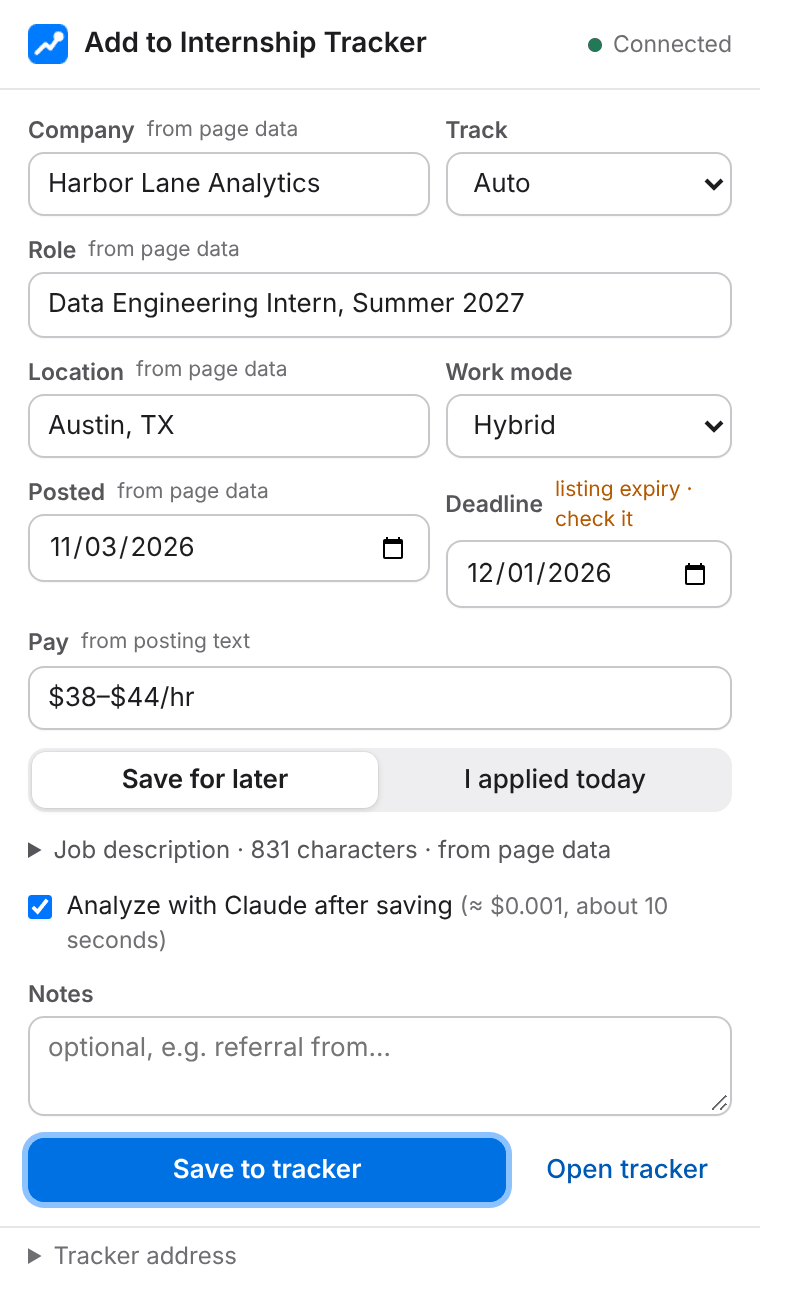
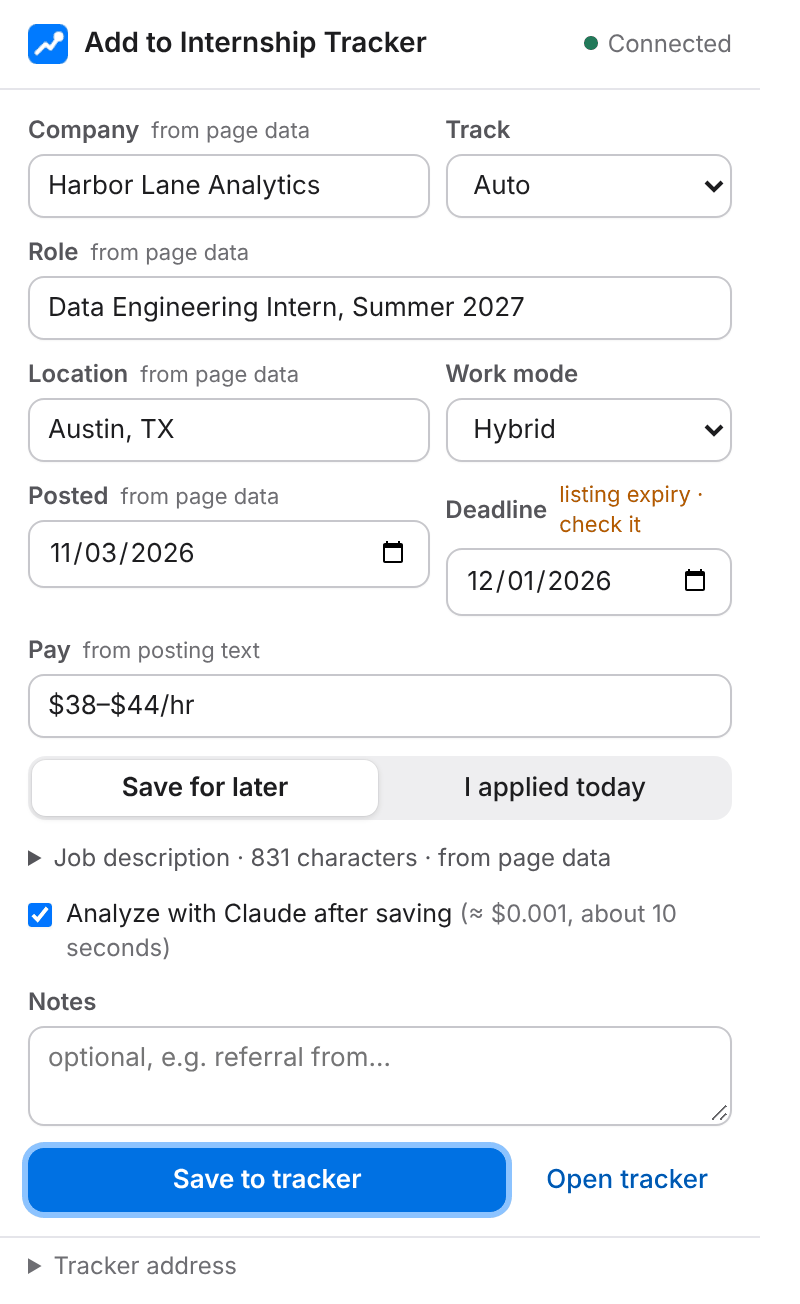
Final audit: one-command demo, demo GIF, no side stripes, phone header, scroll reset
- python3 server.py --demo: synthetic data in a temporary folder, stubbed Claude, no refresh,
  port 8766; README opens with a 25-second tour GIF and the two-line try-it command
- Audit (19 routes x desktop/tablet/phone x light/dark): no axe-core WCAG 2.2 A/AA violations,
  no console errors, no horizontal overflow. Fixed what it and a visual pass found:
  - a new address (another job, step or pane) starts at the top instead of keeping the
    previous page's scroll position
  - phones: Search, Settings and Add are icon buttons beside the title (the title was
    overlapped); verdict reasons wrap as sentences; Profile status stacks; larger touch targets
  - no coloured side stripes on urgent rows, cards, verdicts or points to confirm; the board's
    coloured column tops removed (urgency reads from the due text)
  - Tracker Clipper: AA contrast on the hovered button, no text under 11 px
- Screenshots regenerated

Claude-Session: https://claude.ai/code/session_01AKncLGpvtfPZQduYRFKLDE

diff --git a/base.css b/base.css
@@ -108,8 +108,8 @@ textarea.auto{resize:none;overflow:hidden}
 .dash{display:grid;grid-template-columns:minmax(0,1.1fr) minmax(0,1fr);grid-template-areas:"att top" "pipe track" "week week";gap:16px;align-items:start}
 .a-att{grid-area:att}.a-top{grid-area:top}.a-pipe{grid-area:pipe}.a-track{grid-area:track}.a-week{grid-area:week}
 .panel-foot{display:flex;justify-content:flex-start;margin-top:auto}
-.u-soon{box-shadow:inset 3px 0 0 var(--hl)}
-.u-hot{box-shadow:inset 3px 0 0 var(--bad)}
+
+
 .due{font-size:12px;font-variant-numeric:tabular-nums;color:var(--muted);white-space:nowrap}
 .due.soon{color:var(--warn);font-weight:600}.due.hot{color:var(--bad);font-weight:600}
 .panel{background:var(--surface);border:1px solid var(--line);border-radius:var(--r);padding:16px;display:flex;flex-direction:column;gap:12px;min-width:0}
@@ -176,7 +176,7 @@ textarea.auto{resize:none;overflow:hidden}
 
 /* board */
 .board{display:flex;gap:12px;overflow-x:auto;padding-bottom:8px;align-items:flex-start}
-.col{flex:1 1 0;min-width:188px;background:var(--sunk);border-radius:var(--r);padding:0 8px 8px;border-top:3px solid var(--c);min-height:180px;transition:background .15s}
+.col{flex:1 1 0;min-width:188px;background:var(--sunk);border-radius:var(--r);padding:0 8px 8px;min-height:180px;transition:background .15s}
 .col.collapsed{flex:0 0 150px;min-width:150px;min-height:0}
 .col .colbtn{all:unset;cursor:pointer;display:block;text-align:center;padding:8px 6px;border-radius:6px;color:var(--accent-text);font-weight:500;font-size:12px}
 .col .colbtn:hover{background:var(--surface)}
@@ -189,7 +189,7 @@ textarea.auto{resize:none;overflow:hidden}
 .card{background:var(--surface);border:1px solid var(--line);border-radius:6px;padding:10px 11px;display:flex;flex-direction:column;gap:6px;cursor:grab}
 .card:hover{border-color:var(--faint)}
 .card.dragging{opacity:.45}
-.card.u-soon{box-shadow:inset 3px 0 0 var(--hl)}.card.u-hot{box-shadow:inset 3px 0 0 var(--bad)}
+
 .card-top{display:flex;align-items:center;justify-content:space-between;gap:8px}
 .card .role{font-size:13px;color:var(--muted);line-height:1.35}
 .chips{display:flex;flex-wrap:wrap;gap:5px}
@@ -323,7 +323,7 @@ td.vi{text-align:center}
 .more-btn{width:32px;height:30px;padding:0;color:var(--muted)}.more-btn svg{width:16px;height:16px}
 .more-btn:hover,.more-btn[aria-expanded="true"]{color:var(--ink);background:var(--sunk)}
 .lrow{cursor:pointer}.lrow .lacts{cursor:default}.lrow.sel .lacts{visibility:hidden}
-.lrow.peeking,.tmatch li.peeking,.todo li.peeking{background:color-mix(in srgb,var(--accent-soft) 70%,var(--surface));box-shadow:inset 3px 0 0 var(--accent)}
+.lrow.peeking,.tmatch li.peeking,.todo li.peeking{background:color-mix(in srgb,var(--accent-soft) 70%,var(--surface))}
 .tmatch li .lacts,.todo li .lacts{grid-template-columns:96px 32px}
 .selbar .hint{display:block;font-weight:400;font-size:12px;color:var(--faint)}
 .selsep{width:1px;align-self:stretch;background:var(--line);margin:0 2px}
@@ -501,7 +501,7 @@ dialog::backdrop{background:color-mix(in srgb,#222831 35%,transparent)}
 .pts:empty{display:none}
 .pt{display:grid;grid-template-columns:58px minmax(0,1fr) auto;gap:8px;align-items:start;padding:6px 8px;border-top:1px solid var(--line)}
 .pt:first-child{border-top:0}
-.pt.pt-c{background:color-mix(in srgb,var(--hl-soft) 55%,var(--surface));box-shadow:inset 3px 0 0 var(--hl)}
+.pt.pt-c{background:color-mix(in srgb,var(--hl-soft) 55%,var(--surface))}
 .pt textarea{border-color:transparent;background:transparent;padding:4px 6px;font-size:13px;line-height:1.45;resize:none;overflow:hidden;min-height:28px}
 .pt textarea:hover{border-color:var(--line)}
 .pt-k{all:unset;box-sizing:border-box;cursor:pointer;margin-top:3px;font-size:11px;font-weight:600;text-align:center;padding:3px 0;border-radius:999px;border:1px solid var(--line);color:var(--muted)}
@@ -552,20 +552,20 @@ dialog::backdrop{background:color-mix(in srgb,#222831 35%,transparent)}
 .sh-main{display:flex;flex-direction:column;gap:8px}
 .sh-main .sub{margin:0;font-size:13px;color:var(--muted)}
 .gets{list-style:none;margin:4px 0 0;padding:0;display:grid;grid-template-columns:repeat(2,minmax(0,1fr));gap:8px 18px;font-size:13px}
-.gets li{display:flex;flex-direction:column;gap:1px;padding-left:12px;border-left:2px solid var(--accent-soft)}
+.gets li{display:flex;flex-direction:column;gap:1px}
 .gets li span{color:var(--muted);font-size:12px}
 .sh-act{display:flex;flex-direction:column;align-items:flex-start;gap:8px;padding:16px;border-radius:var(--r);background:color-mix(in srgb,var(--sunk) 45%,var(--surface))}
 .sh-act .sub{font-size:12px;color:var(--faint)}
 /* verdict */
-.verdict{display:grid;grid-template-columns:auto minmax(0,1fr) auto;gap:12px 18px;align-items:center;border-left:4px solid var(--good)}
-.verdict.v-warn{border-left-color:var(--hl)}.verdict.v-bad{border-left-color:var(--bad)}
+.verdict{display:grid;grid-template-columns:auto minmax(0,1fr) auto;gap:12px 18px;align-items:center}
+
 .verdict>.ring{width:56px;height:56px}.verdict>.ring span{width:46px;height:46px;font-size:15px}
 .vd-body{display:flex;flex-direction:column;gap:6px;min-width:0}
 .vd-body>b{font-size:15px}
 .vd-block{margin:0;color:var(--bad);font-size:13px;font-weight:600}
 .vd-checks{list-style:none;margin:0;padding:0;display:flex;flex-wrap:wrap;gap:4px 16px;font-size:12px;color:var(--muted)}
-.vd-checks li{display:flex;align-items:center;gap:6px}
-.vd-checks li::before{content:"✓";font-weight:700;color:var(--good)}
+.vd-checks li{position:relative;padding-left:16px}
+.vd-checks li::before{content:"✓";font-weight:700;color:var(--good);position:absolute;left:0;top:0}
 .vd-checks li.warn::before{content:"!";color:var(--warn)}.vd-checks li.bad::before{content:"✕";color:var(--bad)}
 .vd-checks li.bad{color:var(--bad)}
 .vd-next{display:flex;flex-direction:column;align-items:flex-end;gap:4px}

diff --git a/apple.css b/apple.css
@@ -186,7 +186,7 @@ input[type=checkbox],input[type=radio]{accent-color:var(--accent);width:16px;hei
 .lrow:hover{background:var(--fill-3)}
 .lrow.qsaved,.tmatch li.qsaved{background:color-mix(in srgb,var(--accent-soft) 45%,var(--surface))}
 .lrow.peeking,.tmatch li.peeking,.todo li.peeking{background:var(--accent-soft);box-shadow:none}
-.u-soon,.card.u-soon{box-shadow:inset 3px 0 0 var(--hl)}
+
 .ring{background:conic-gradient(var(--rc) calc(var(--p)*1%),var(--fill-2) 0)}
 .ring span{font-family:var(--f-round);font-weight:600}
 
@@ -241,7 +241,7 @@ tbody tr:hover td{background:var(--fill-3)}
 .sh-act{border-radius:14px;background:var(--fill-3)}
 .verdict{border-left:0;box-shadow:var(--card-shadow)}
 .verdict.v-warn{box-shadow:var(--card-shadow)}
-.verdict.v-bad{box-shadow:inset 4px 0 0 var(--bad),var(--card-shadow)}
+.verdict.v-bad{box-shadow:var(--card-shadow)}
 .choice{border-radius:14px;padding:16px}
 .choice.rec{box-shadow:0 0 0 2px var(--accent),var(--card-shadow);background:var(--surface)}
 .rs-paper{border:0;border-radius:14px;background:var(--fill-3)}
@@ -968,3 +968,28 @@ input::placeholder,textarea::placeholder{color:var(--faint);opacity:1}
 .rs-shead>input{flex:1 1 auto;min-width:0;max-width:260px}
 @container (max-width:600px){.rs-ptool #rsFit{flex-basis:100%;order:-1}.rs-ptool .grow{display:none}}
 @container (max-width:520px){.rs-eh{grid-template-columns:minmax(0,1fr) 120px}}
+
+/* ---------- final audit (Nov 6, 2026) ---------- */
+/* No side stripes anywhere: urgency reads from the due text ("Tomorrow", "In 2 days") and its colour */
+.lrow.u-soon,.lrow.u-hot,tr.u-soon,tr.u-hot,li.u-soon,li.u-hot{box-shadow:none}
+/* Verdict checks: a link stays on the line of its sentence instead of becoming a column */
+.vd-checks li .linkbtn{white-space:nowrap}
+@media (max-width:760px){
+  /* Header: Search, Settings and Add as three 44 pt icon buttons beside the title, like a navigation bar */
+  .top:has(#addBtn:not([hidden])) .titlebar{padding-right:150px}
+  .verdict{align-items:start}
+  #addBtn{width:40px;height:40px;margin-left:4px;padding:0;border-radius:50%;font-size:0;display:inline-grid;place-items:center}
+  #addBtn::before{content:"";width:16px;height:16px;background:currentColor;
+    -webkit-mask:linear-gradient(#000,#000) center/16px 2px no-repeat,linear-gradient(#000,#000) center/2px 16px no-repeat;
+            mask:linear-gradient(#000,#000) center/16px 2px no-repeat,linear-gradient(#000,#000) center/2px 16px no-repeat}
+  /* Verdict: a smaller ring so the reasons get the width */
+  .verdict{gap:10px 12px}
+  .verdict>.ring{width:44px;height:44px}.verdict>.ring span{width:36px;height:36px;font-size:13px}
+  /* Profile status: the save state goes under the summary */
+  .pf-status{flex-direction:column;gap:6px}
+  /* Touch targets: standalone links and small controls reach 24 px or more (WCAG 2.5.8) */
+  .crumb{padding:4px 0;margin-bottom:0}
+  .stepnav a,.sh-act .linkbtn,.ch-act .linkbtn{min-height:32px;display:inline-flex;align-items:center}
+  input[type=checkbox]{width:20px;height:20px}
+  button.sv{min-height:32px;padding:0 4px}
+}

diff --git a/extension/popup.css b/extension/popup.css
@@ -15,15 +15,15 @@ html,body{margin:0}
 body{width:380px;background:var(--bg);color:var(--ink);font:13px/1.4 -apple-system,BlinkMacSystemFont,"SF Pro Text","Helvetica Neue",system-ui,sans-serif;-webkit-font-smoothing:antialiased}
 .top{display:flex;align-items:center;gap:8px;padding:12px 14px;border-bottom:.5px solid var(--line)}
 .top h1{flex:1;margin:0;font-size:14px;font-weight:600}
-.conn{display:inline-flex;align-items:center;gap:5px;font-size:11.5px;color:var(--faint)}
+.conn{display:inline-flex;align-items:center;gap:5px;font-size:12px;color:var(--faint)}
 .conn i{width:7px;height:7px;border-radius:50%;background:var(--line-strong)}
 .conn.on i{background:var(--good)}.conn.off i{background:var(--bad)}
 main{padding:12px 14px 4px;display:flex;flex-direction:column;gap:10px}
 form{display:flex;flex-direction:column;gap:9px}
 .row2{display:grid;grid-template-columns:minmax(0,1.4fr) minmax(0,1fr);gap:8px}
 .field{display:flex;flex-direction:column;gap:3px;min-width:0}
-.field>span{font-size:11.5px;font-weight:600;color:var(--muted);display:flex;align-items:center;gap:6px}
-.from{font-style:normal;font-weight:400;color:var(--faint);font-size:10.5px}
+.field>span{font-size:12px;font-weight:600;color:var(--muted);display:flex;align-items:center;gap:6px}
+.from{font-style:normal;font-weight:400;color:var(--faint);font-size:11px}
 .from.miss{color:var(--warn)}
 input,select,textarea{font:inherit;color:var(--ink);background:var(--bg);border:.5px solid var(--line-strong);border-radius:var(--r-ctl);padding:6px 9px;width:100%;min-width:0;box-shadow:0 .5px 1px rgba(0,0,0,.04)}
 textarea{resize:vertical}
@@ -41,7 +41,7 @@ input:invalid.touched{border-color:var(--bad)}
 .desc textarea{margin-top:6px;font-size:12px}
 .check{display:flex;align-items:flex-start;gap:7px;font-size:12.5px;cursor:pointer}
 .check input{width:auto;margin:2px 0 0}
-.hint{color:var(--faint);font-size:11.5px;margin:2px 0 0;font-weight:400}
+.hint{color:var(--faint);font-size:12px;margin:2px 0 0;font-weight:400}
 .notice{border:0;border-radius:10px;padding:8px 10px;background:var(--sunk);display:flex;flex-direction:column;gap:4px;font-size:12.5px}
 .notice.warn{background:var(--warn-bg)}
 .notice a{color:inherit;font-weight:600}
@@ -49,7 +49,7 @@ input:invalid.touched{border-color:var(--bad)}
 .acts{display:flex;gap:8px;align-items:center;padding:2px 0 8px}
 .btn{font:inherit;font-weight:500;border-radius:var(--r-ctl);border:0;background:var(--fill);color:var(--ink);padding:7px 12px;cursor:pointer;text-decoration:none;display:inline-flex;align-items:center;justify-content:center}
 .btn.primary{background:var(--accent);color:var(--accent-ink);flex:1;font-weight:600}
-.btn.primary:hover{background:#0077ED}
+.btn.primary:hover{background:#0066CC}
 .btn.ghost{background:transparent;color:var(--link)}
 .btn.sm{padding:4px 9px;font-size:12px}
 .btn:disabled{opacity:.55;cursor:default}

diff --git a/app.js b/app.js
@@ -1116,6 +1116,7 @@ async function loadBackups() {
 /* ---------- render ---------- */
 function route() { const h = location.hash.slice(1).split('/')[0]; return h === 'prefs' ? 'settings' : VIEWS[h] ? h : 'dashboard'; }
 let lastView = null;
+let lastHash = null;
 function render() {
   const v = route();
   if (!['settings', 'profile', 'docs'].includes(v)) { UI.backTo = location.hash || '#dashboard'; try { UI.backName = VIEWS[v][0]; } catch (_) { UI.backName = ''; } }
@@ -1135,9 +1136,13 @@ function render() {
   const badge = (id, n, tip) => { const el = $(id); el.textContent = n || ''; el.title = n ? tip : ''; el.classList.toggle('hot', id === '#nDash' && n > 0); };
   badge('#nDash', nAtt, `${plural(nAtt, 'item')} due within 3 days or waiting for a follow-up`); badge('#nApps', nAct, plural(nAct, 'active application')); badge('#nInbox', nNow, `${nNow} “Apply now” pick${nNow === 1 ? '' : 's'}`);
   $('#banner').hidden = !(S.apps.some((a) => a.sample) || S.manualListings.some((l) => l.sample));
-  const y = window.scrollY;
+  const y = window.scrollY, h = location.hash;
   $('#view').innerHTML = R[v]();
-  if (v === lastView) window.scrollTo(0, y);
+  /* Same page re-rendered: keep the scroll. A new address (another job, step or pane): start at the top,
+     before the after-render hooks so a jump to a field (GOTO) can still scroll to it. */
+  if (v === lastView && h === lastHash) window.scrollTo(0, y);
+  else if (lastHash !== null) window.scrollTo(0, 0);
+  lastHash = h;
   if (v === 'settings' && Store.mode === 'file') loadBackups();
   if (v === 'dashboard') fitChart();
   for (const f of HOOKS.afterRender) f(v);

diff --git a/server.py b/server.py
@@ -1012,11 +1012,25 @@ def code_watcher():
 
 def main():
     ap = argparse.ArgumentParser(description="Internship Application Tracker (local)")
-    ap.add_argument("--port", type=int, default=8765)
+    ap.add_argument("--port", type=int, default=None, help="default 8765 (8766 with --demo)")
     ap.add_argument("--data", help="data folder (default: ./data)")
     ap.add_argument("--no-browser", action="store_true")
     ap.add_argument("--no-fetch", action="store_true", help="do not refresh listings in the background")
+    ap.add_argument("--demo", action="store_true",
+                    help="try it with synthetic data: a fresh temporary data folder, Claude answers stubbed (no key, no cost), no refresh")
     args = ap.parse_args()
+    if args.demo:
+        import importlib.util
+        import tempfile
+        spec = importlib.util.spec_from_file_location("make_demo_data", os.path.join(ROOT, "scripts", "make_demo_data.py"))
+        demo = importlib.util.module_from_spec(spec)
+        spec.loader.exec_module(demo)
+        args.data = args.data or tempfile.mkdtemp(prefix="internship-tracker-demo-")
+        if not os.path.exists(os.path.join(args.data, "tracker.json")):
+            demo.main(args.data)
+        os.environ["IAT_AI_STUB"] = "1"
+        args.no_fetch = True
+    args.port = args.port or (8766 if args.demo else 8765)
     if args.data:
         configure(args.data)
     if not os.path.exists(os.path.join(ROOT, PAGE)):

diff --git a/README.md b/README.md
@@ -5,7 +5,14 @@
 [![tests](https://github.com/cccjoshua/internship-tracker/actions/workflows/tests.yml/badge.svg)](https://github.com/cccjoshua/internship-tracker/actions/workflows/tests.yml)
 Python standard library · vanilla JavaScript · Chrome extension (Manifest V3) · optional Claude API · no build step, no account, no cloud database
 
-![Resume editor: edit on the left, the exact export on the right](docs/screenshots/resume-editor.png)
+![A 25-second tour: today's queue, ranked listings, eligibility and fit for one job, the resume editor, the application kit](docs/demo.gif)
+
+**Try it in 30 seconds** (Python 3.8+, nothing to install, no API key):
+
+```bash
+git clone https://github.com/cccjoshua/internship-tracker.git && cd internship-tracker
+python3 server.py --demo        # synthetic data in a temporary folder, Claude answers stubbed, opens http://127.0.0.1:8766
+```
 
 ## Why I built it
 
@@ -35,7 +42,8 @@ The full history is in [CHANGELOG.md](CHANGELOG.md), and the design decisions an
 |---|---|
 | ![Dashboard](docs/screenshots/dashboard.png) | ![New listings with the priority breakdown](docs/screenshots/listings.png) |
 | ![Eligibility and fit for one job](docs/screenshots/job-fit.png) | ![Not eligible, dark mode](docs/screenshots/job-not-eligible-dark.png) |
-| ![Resume review: score, checks and Claude's notes](docs/screenshots/resume-review.png) | ![Tracker Clipper](docs/screenshots/clipper.png) |
+| ![Resume editor: edit on the left, the exact export on the right](docs/screenshots/resume-editor.png) | ![Resume review: score, checks and Claude's notes](docs/screenshots/resume-review.png) |
+| ![Applications board](docs/screenshots/applications-board.png) | ![Tracker Clipper](docs/screenshots/clipper.png) |
 
 *Screenshots use the synthetic demo data in `scripts/make_demo_data.py`. Every person, company and link in them is fictional.*
 
@@ -83,16 +91,16 @@ cd internship-tracker
 python3 server.py                      # opens http://127.0.0.1:8765, data in ./data
 ```
 
-Options: `--port 9000`, `--data /path/to/folder`, `--no-browser`, `--no-fetch` (no background refresh).
+Options: `--port 9000`, `--data /path/to/folder`, `--no-browser`, `--no-fetch` (no background refresh), `--demo` (synthetic data, stubbed Claude).
 
 ### Try it with demo data (no API key, no cost)
 
 ```bash
-python3 scripts/make_demo_data.py demo-data
-IAT_AI_STUB=1 python3 server.py --data demo-data --no-fetch --port 8766
+python3 server.py --demo                       # a fresh temporary folder each time
+python3 server.py --demo --data demo-data      # or keep the demo in ./demo-data
 ```
 
-`IAT_AI_STUB=1` replaces every Claude call with a deterministic local answer and shows a banner on the page. The demo can't reach the paid API, and your real `data/` folder is never touched.
+`--demo` writes synthetic data (`scripts/make_demo_data.py`), turns the background refresh off and sets `IAT_AI_STUB=1`, which replaces every Claude call with a deterministic local answer and shows a banner on the page. The demo can't reach the paid API, and your real `data/` folder is never touched.
 
 ### Add the Chrome extension (optional)
 
